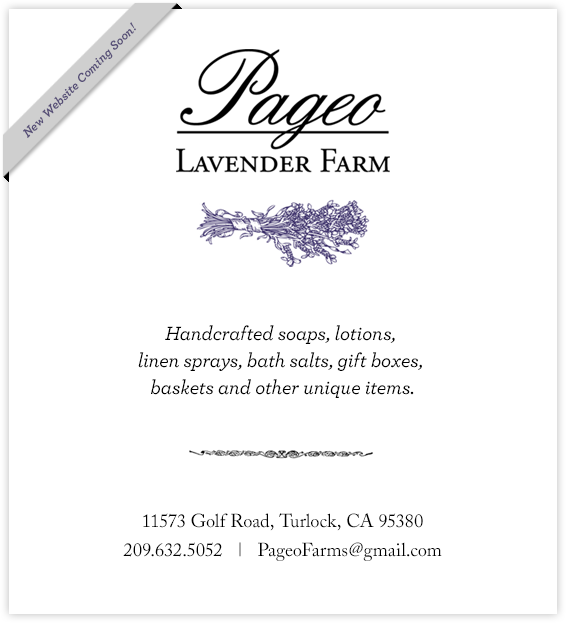
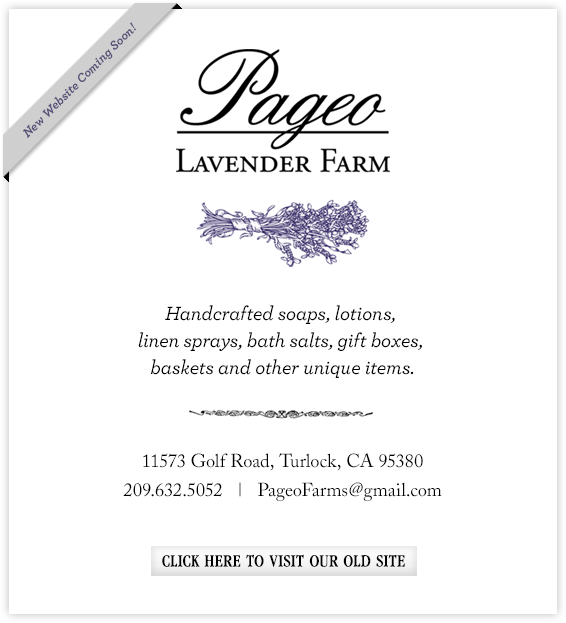
merge

Changed region(s): [[0.2102, 0.7014, 0.7809, 0.9454], [0.2403, 0.488, 0.7509, 0.6709]]

diff --git a/_site/index.html b/_site/index.html
@@ -11,15 +11,15 @@
         <meta name="description" content="Handcrafted soaps, lotions, linen sprays, bath salts, gift boxes, baskets and other unique items.">
         <meta name="viewport" content="width=device-width">
 
-        <link rel="stylesheet" type="text/css" href="/assets/application-77eadea960e899977f5310e6a21702fd.css">
+        <link rel="stylesheet" type="text/css" href="/assets/application-ea84a7e9e6ec04445656f475a45a95aa.css">
 
     </head>
     
     <body>
 		<div class="splash">
-    
-    <img src="/img/modbee.png">
-    
+    <a href="http://old.pageolavenderfarm.com">
+    	<img src="/img/modbee.png">
+    </a>
 </div>
 	</body>
 </html>

diff --git a/_site/index2.html b/_site/index2.html
@@ -11,7 +11,7 @@
         <meta name="description" content="Handcrafted soaps, lotions, linen sprays, bath salts, gift boxes, baskets and other unique items.">
         <meta name="viewport" content="width=device-width">
 
-        <link rel="stylesheet" type="text/css" href="/assets/application-77eadea960e899977f5310e6a21702fd.css">
+        <link rel="stylesheet" type="text/css" href="/assets/application-ea84a7e9e6ec04445656f475a45a95aa.css">
         <script type="text/javascript" src="/assets/application-a9d0598bd157a7e32bbfd38e8074793f.js"></script>
 
     </head>

diff --git a/index.html b/index.html
@@ -5,7 +5,7 @@ description: "Handcrafted soaps, lotions, linen sprays, bath salts, gift boxes, 
 ---
 
 <div class="splash">
-    
-    <img src="/img/modbee.png">
-    
+    <a href="http://old.pageolavenderfarm.com">
+    	<img src="/img/modbee.png">
+    </a>
 </div>

diff --git a/_assets/stylesheets/application/home.sass b/_assets/stylesheets/application/home.sass
@@ -1,10 +1,7 @@
-
-
-
 .splash
   text-align: center
   
-  img
+  a
     margin: 30px auto
     
 
